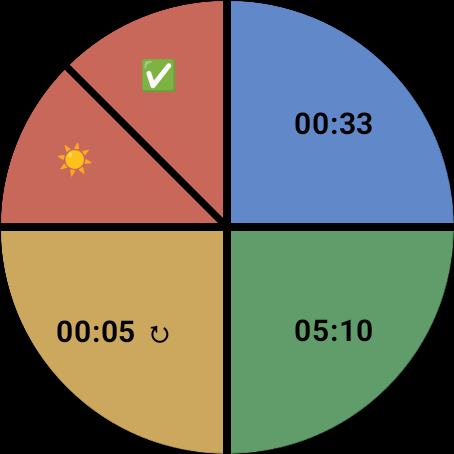
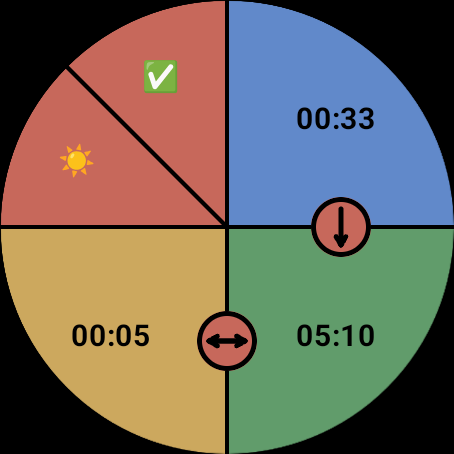
New screenshots showing transitions

diff --git a/README.md b/README.md
@@ -13,6 +13,7 @@ You can find the app on the Play store here: https://play.google.com/store/apps/
 This is the main timer view:
 
 ![Main Screen](screenshots/01_main.png)
+![Main Screen With Transitions](screenshots/01b_main.png)
 
 After pressing the `Edit` button, tap a timer to edit:
 
@@ -25,6 +26,7 @@ In edit mode, select minutes or seconds and drag the slider to set the number:
 Now with dark mode:
 
 ![Dark Mode](screenshots/04_dark_mode.png)
+![Dark Mode With Transitions](screenshots/04b_dark_mode.png)
 
 
 ## ADB
